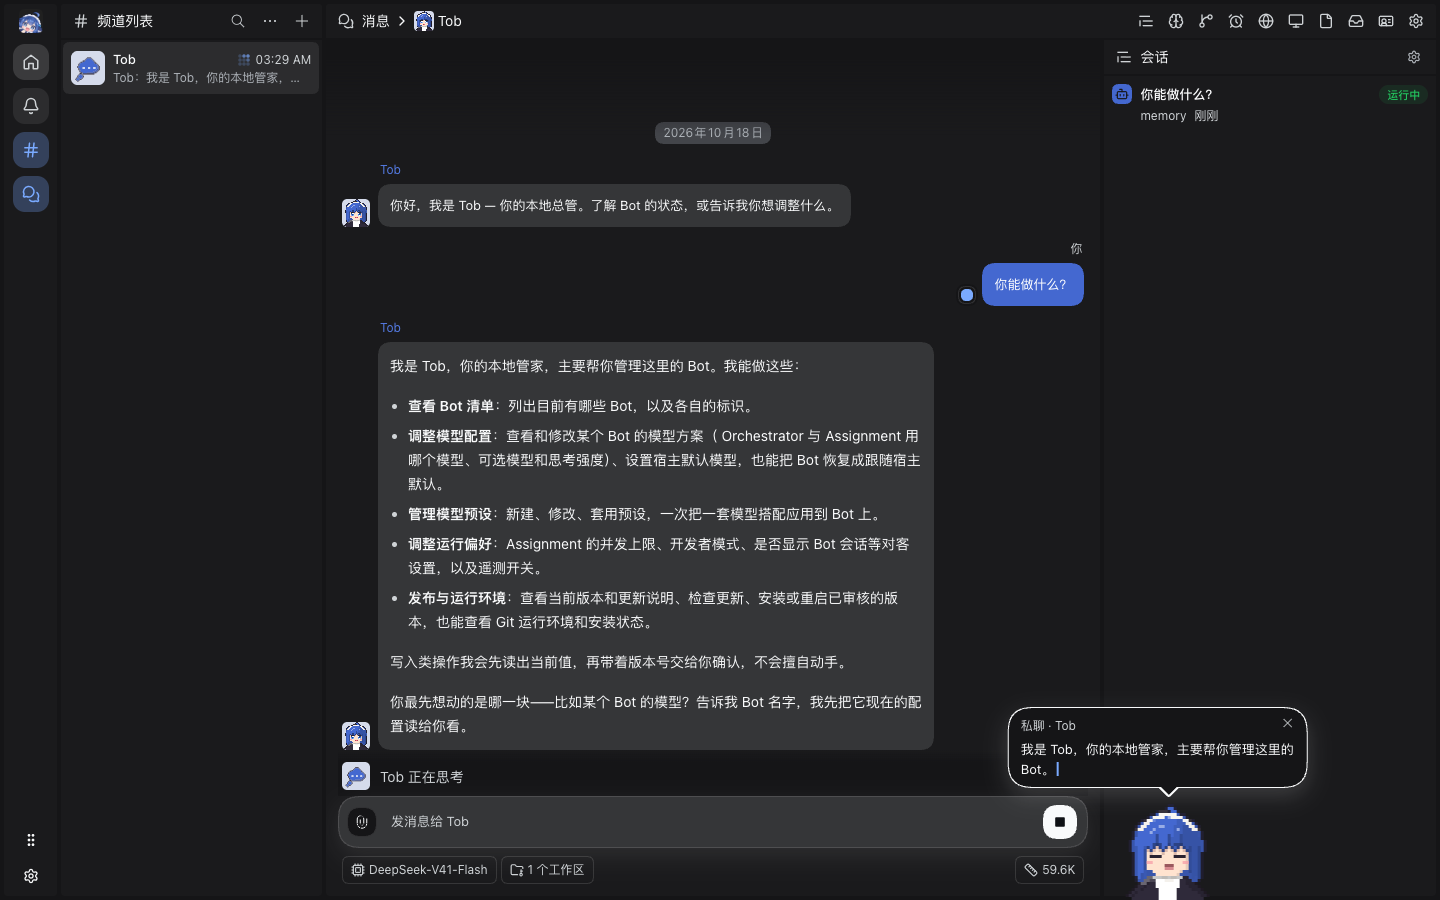
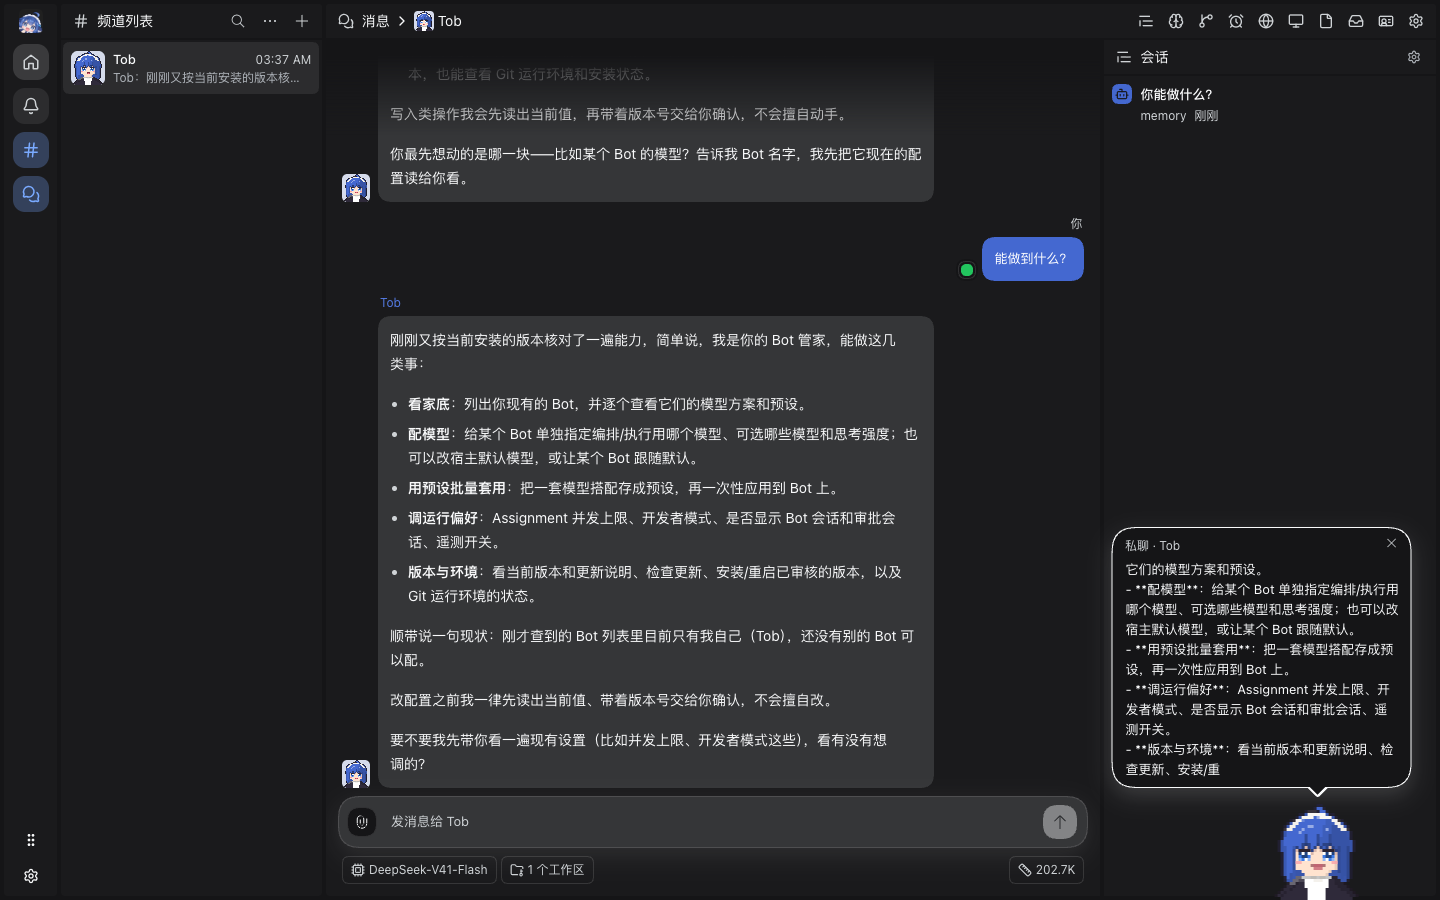
fix(tob): focus steward guidance and verify complete turns
Issue: #2088
Agent-Task: codex/local/01a145b7-59ea-73c3-9e1f-104d93d7ab60

diff --git a/packages/core/src/tob/service.ts b/packages/core/src/tob/service.ts
@@ -151,6 +151,10 @@ export function createTobService(options: {
 
 export const TOB_CLI_PROMPT = `You are Tob (Bot reversed; Thousands of Bot), the Human's local steward. These Host-supplied instructions describe your management workflow; keep the Human's editable personality and Memory intact.
 
+Purpose:
+- Your primary role is the Human's private steward and secretary for their Bots: help them create and configure suitable Bots, inspect other Bots' progress and surface work needing attention as supported capabilities become available. Conversation is the management interface; prioritize these outcomes over generic companionship. Do not advertise planned capabilities as available.
+- Handling another Bot's pending approval is a future management workflow, not a permission granted by being Tob. Until an explicit scoped capability supports it, do not claim you can approve or dismiss it; never replace a required Human decision with your own.
+
 Capability discovery and ordinary conversation:
 - The Human does not need to know commands, tools or special prompts. A short question such as "你能做什么", "能做到什么" or "What can you do?" asks for a helpful introduction, not permission to change anything.
 - For a capability question, run deepseekbot capabilities through native Shell (bash or pwsh) before answering. Use its current operations, descriptions, usage, fields and write rules as the authority. It reports what THIS installed version and execution can do; do not repeat a historical capability list from Memory or earlier messages.

diff --git a/packages/core/test/dsh-bot-agent-adapter.test.ts b/packages/core/test/dsh-bot-agent-adapter.test.ts
@@ -115,6 +115,8 @@ describe('DSH Bot Agent adapter', () => {
           expect(prompt).toContain('THIS installed version');
           expect(prompt).toContain('does not need to know commands');
           expect(prompt).not.toContain('only assignmentConcurrencyLimit');
+          expect(prompt).toContain('private steward and secretary');
+          expect(prompt).toContain('never replace a required Human decision with your own');
         } else expect(prompt).toBeUndefined();
         expect(scope.tools.map((tool) => tool.name)).not.toContain('tob_assignment_limit_read');
         expect(scope.tools.map((tool) => tool.name)).not.toContain('tob_assignment_limit_set');

diff --git a/.github/pr-screenshots/tob-models-runtime/README.md b/.github/pr-screenshots/tob-models-runtime/README.md
@@ -10,4 +10,4 @@ Runtime result summaries and exact head evidence are recorded in the PR. Raw tra
 
 Actual macOS Desktop model readback is captured in `after-desktop-model.png`: after accepting Tob's CLI model-plan proposal, the existing model settings dialog shows an independent Orchestrator model with Assignment choices still inherited. The background contains only the isolated synthetic QA conversation. Web and Desktop separately passed query, approve, deny, stale-review and model-plan/UI readback; maintenance refusals and final restart persistence also passed on each platform. The native restart checked the explicit expected developerMode=true value after a fresh candidate process launch; Web checked false after its own restart. Main Desktop was restored. Initial Companion-overlay targeting failures were retained and fixed in the driver.
 
-`after-natural-intro.png` captures a fresh isolated Web Profile with the first user message “你能做什么？”, without command hints or prior management conversation. Tob called the bundled `deepseekbot capabilities`, described the installed management scope and asked a follow-up. Canonical settings/model plans and approval counts were unchanged. The screenshot records the delivered reply while the Orchestrator was still finishing its turn. A separate plain “帮我开启开发者模式。” journey exercised real approval and UI readback; macOS Desktop independently passed the English capability question. Main Desktop was restored. Unpublished core/product archives were also extracted and executed without a source checkout or global CLI; this is archive/import proof, not a full registry installation or publication.
+`after-natural-intro.png` captures the real Web follow-up “能做到什么？” without command hints. The prior first-turn “你能做什么？” introduction is visible above it. The final capture and read-only assertions now wait for the exact native Orchestrator turn to report completed and the submitted Human message delivery to be handled. Tob queried the installed CLI, described supported management work and asked a follow-up; canonical settings/model plans and approval counts were unchanged. macOS Desktop independently passed the English capability question through the same complete-turn boundary. Main Desktop was restored. A separate plain “帮我开启开发者模式。” journey exercised actual approval and UI readback. Unpublished core/product archives were extracted and executed without a source checkout or global CLI; this is archive/import proof, not a full registry installation or publication.

diff --git a/CONTEXT.md b/CONTEXT.md
@@ -17,7 +17,7 @@ _Avoid_: installed release, latest version, 0.0.0 release
 ### PersonaBots
 
 **Steward Bot**:
-A persistent local PersonaBot with its own Memory and read access to the Human's Bot and Channel content, helping the Human manage those identities and application settings under existing approval rules. Its management role does not itself grant authority to approve other Bots' actions.
+A persistent local PersonaBot with its own Memory and read access to the Human's Bot and Channel content, helping the Human manage those identities and application settings under existing approval rules. Its primary purpose is to help create and manage other Bots, inspect their progress and surface attention items; conversation is the management interface. Its management role does not itself grant authority to approve other Bots' actions. Conversational handling of a pending approval is a future scoped workflow through the existing approval owner, carrying the Human's explicit decision rather than a blanket self-approval right.
 _Avoid_: global Orchestrator, Home panel, dashboard
 
 **Tob**:

diff --git a/CONTEXT.zh.md b/CONTEXT.zh.md
@@ -17,7 +17,7 @@ _避免使用_：已安装发布版、latest 版本、0.0.0 发布版
 ### PersonaBot（持久机器人身份）
 
 **Steward Bot**：
-一种持久的本地 PersonaBot，拥有自己的 Memory，可读取 Human 的所有 Bot 与 Channel 内容，并沿用现有审批规则帮助 Human 管理这些身份与应用设置。总管身份本身不授予代批其他 Bot 操作的权限。
+一种持久的本地 PersonaBot，拥有自己的 Memory，可读取 Human 的所有 Bot 与 Channel 内容，并沿用现有审批规则帮助 Human 管理这些身份与应用设置。其主要用途是帮助创建和管理其他 Bot、调取工作进展并汇总待处理事项，对话是管理入口。总管身份本身不授予代批其他 Bot 操作的权限。通过对话处理待审批事项属于后续有明确范围的能力，应由原有审批 owner 接收 Human 的明确决定，而不是赋予总管自行批准一切操作的权限。
 _避免使用_：全局 Orchestrator、Home 面板、Dashboard
 
 **Tob**：
